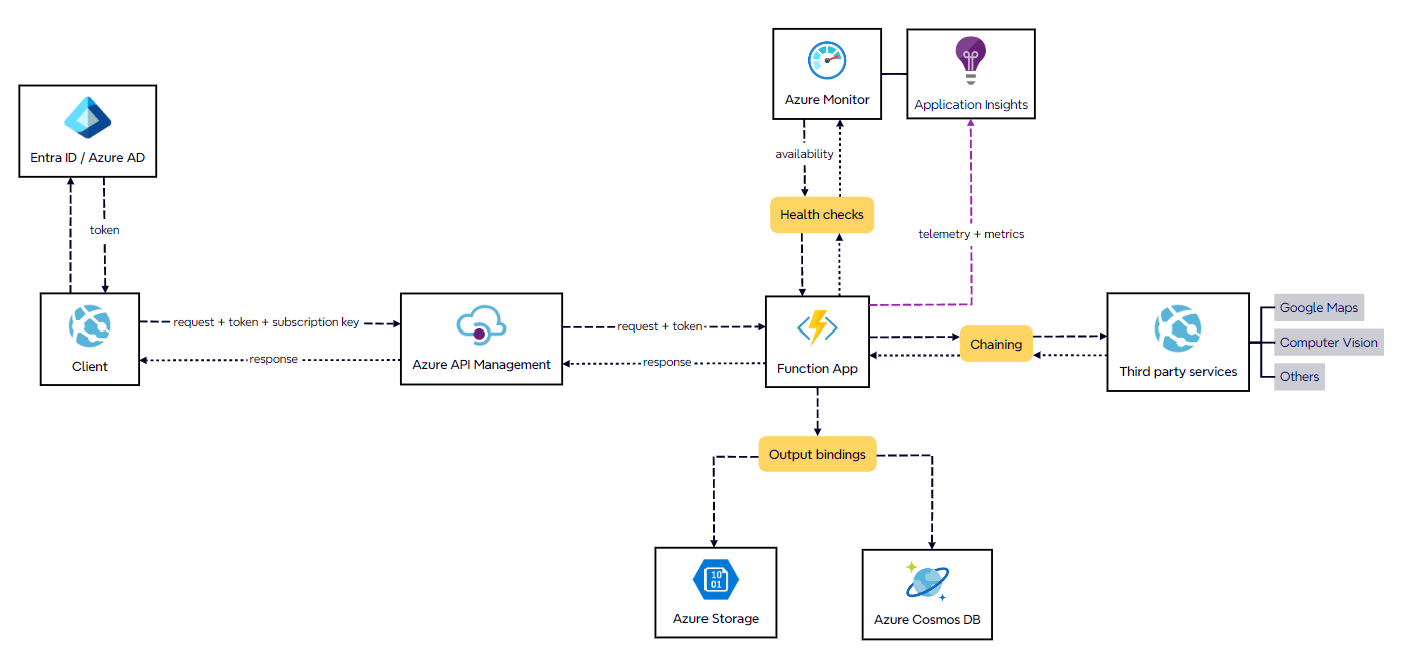
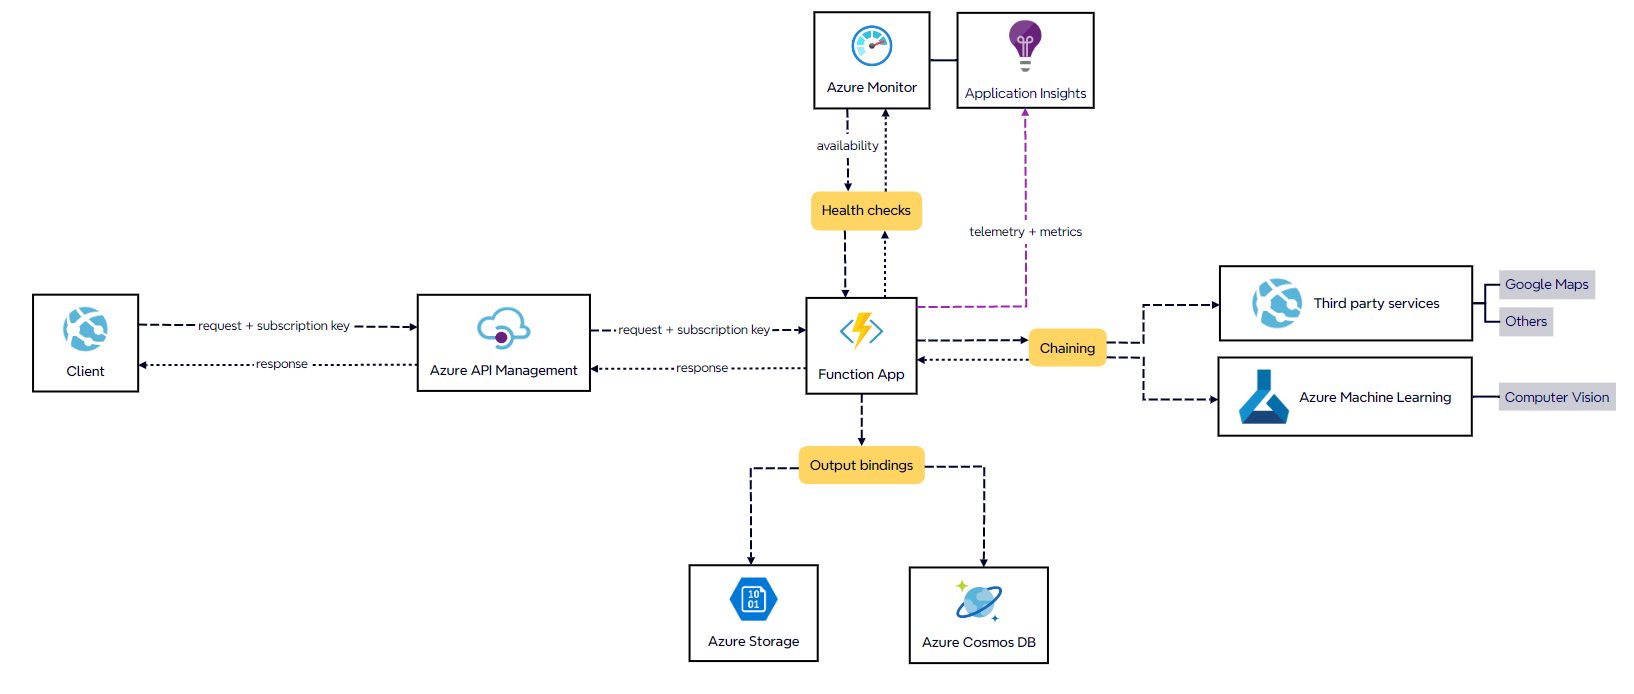
update top-level diagram and texts

diff --git a/README.md b/README.md
@@ -2,8 +2,54 @@
 
 ## Top-level diagram
 
-### Authentication + Authorization
+![top level diagram](images/top-level-diagram.png)
 
-### Function App
+### 1. Security
+
+- The client registers in Azure API Management.
+- The client make a request to Azure API Management API endpoint with **subscription key**.
+- The Function App can validate **which products** the subscriber has access to before any other action.
+
+```
+GET https://turing-challenge.azure-api.net/api/endpoint
+Ocp-Apim-Subscription-Key: <subscription_key>
+```
+
+### 2. Function App
+
+- The Function App executes a Durable Function with [**Function chaining pattern**](https://learn.microsoft.com/en-us/azure/azure-functions/durable/durable-functions-overview?tabs=isolated-process%2Cnodejs-v3%2Cv1-model&pivots=csharp#chaining)
+- Each function will do what is necessary under its own scope (call third-party services, store or read data in a database, store files, ...)
+- The Function App could be *Consuption plan* because it supports
+  - 1.000.000 monthly request for free
+  - Up to 200 instances
+  - Up to 5 minutes timeout
+
+```csharp
+[Function("evaluate")]
+public static async Task<object> EvaluateAsync(
+    [OrchestrationTrigger] TaskOrchestrationContext context,
+    string address)
+{
+    try
+    {
+        var plot = await context.CallActivityAsync<object>("GetPlotAsync", address);
+        var satellite = await context.CallActivityAsync<object>("GetGoogleSatelliteAsync", plot.Coordinates);
+        var street = await context.CallActivityAsync<object>("GetGoogleStreetAsync", plot.Coordinates);
+
+        // ...
+
+        var prediction = await context.CallActivityAsync<object>("GetPredictionAsync", plot.Coordinates);
+
+        // ...
+
+        return  await context.CallActivityAsync<object>("BuildAnswer", (plot, satellite, street, prediction));
+    }
+    catch (Exception)
+    {
+        // Error handling or compensation goes here.
+    }
+}
+```
 
 ### Health checks
+
